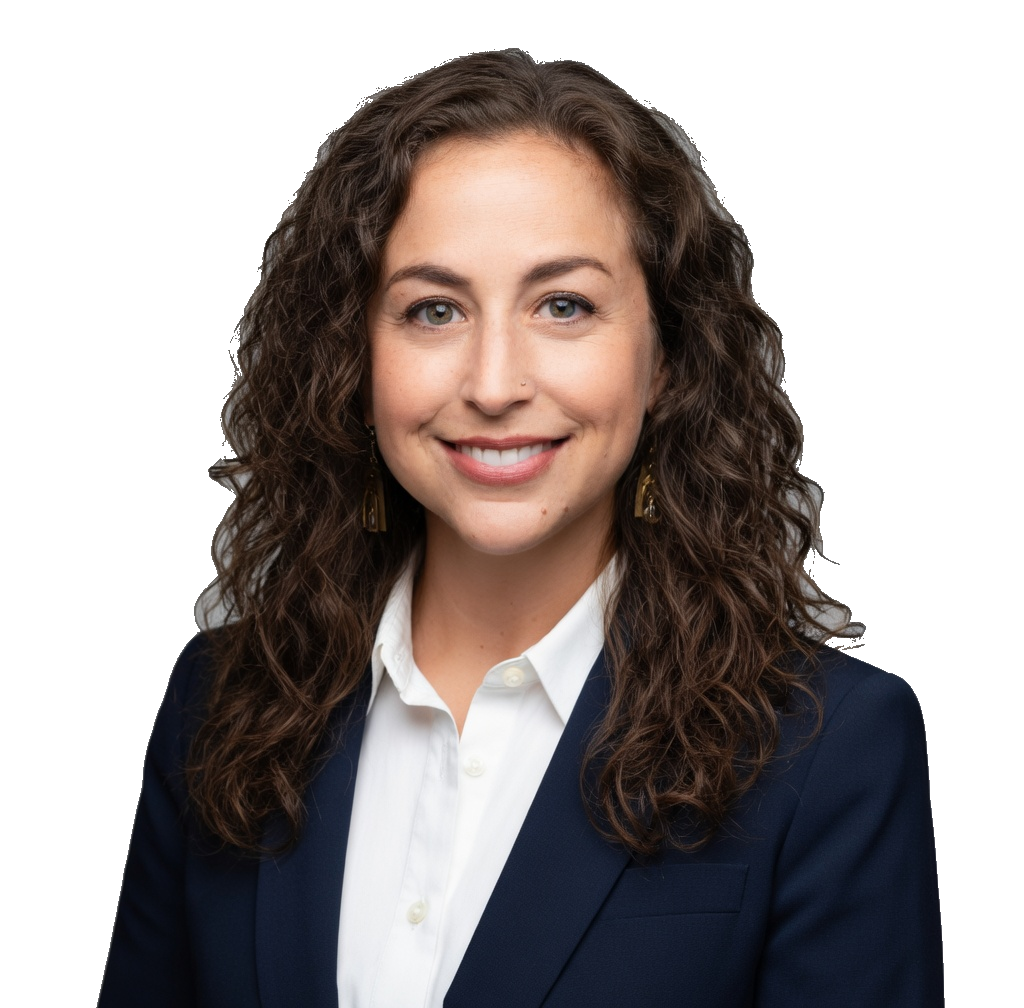
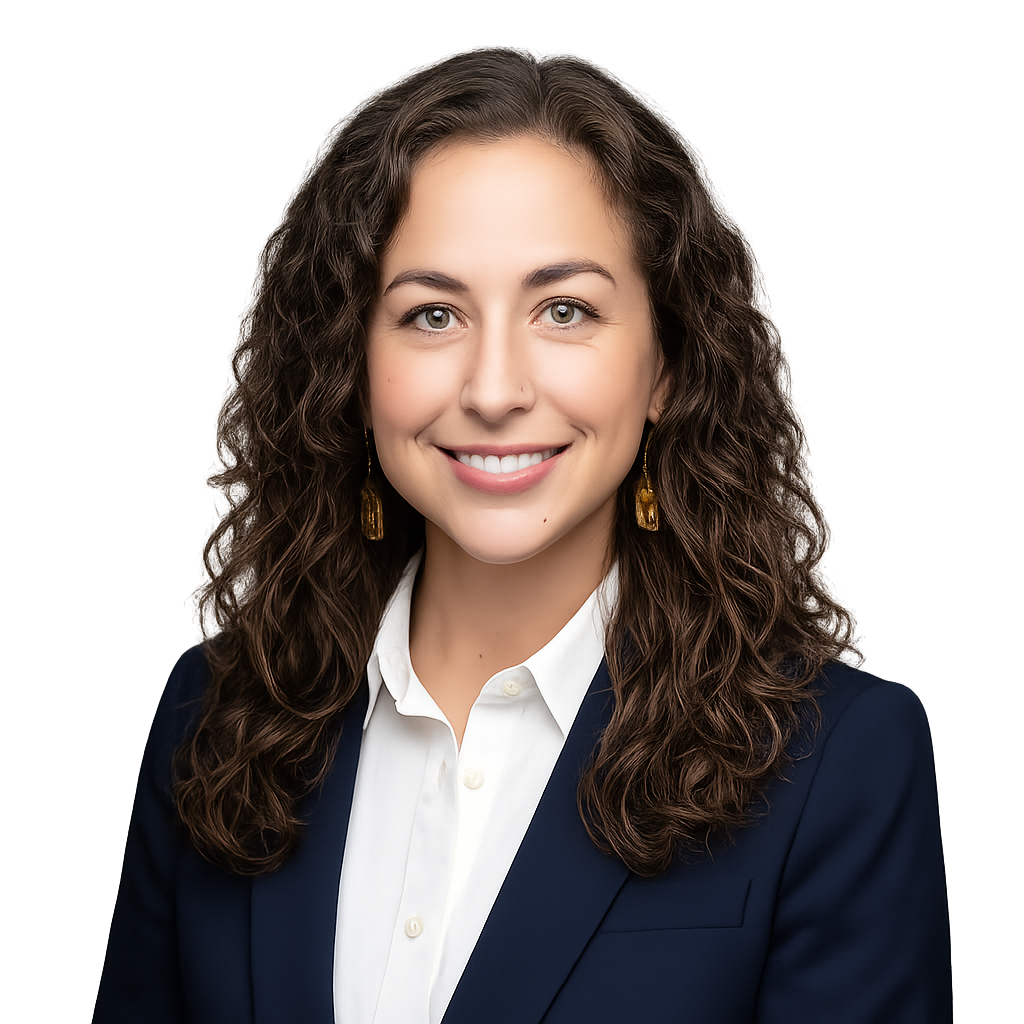
premium update and quality

diff --git a/script.js b/script.js
@@ -184,29 +184,33 @@ function closeNewEntryModal() {
 }
 
 async function createNewEntry() {
-    const user = auth.currentUser;
-    if (!user) {
-        alert("You must be logged in.");
-        return;
-    }
-
     const name = document.getElementById('new-entry-name').value.trim();
     if (!name) {
         alert("Please give your entry a name.");
         return;
     }
 
+    closeNewEntryModal();
+    await createEntryWithTitle(name);
+}
+
+async function createEntryWithTitle(title) {
+    const user = auth.currentUser;
+    if (!user) {
+        alert("You must be logged in.");
+        return;
+    }
+
     try {
         const docRef = await db.collection('users').doc(user.uid)
             .collection('journals').add({
-                title: name,
+                title: title,
                 text: '',
                 status: 'draft',
                 timestamp: firebase.firestore.FieldValue.serverTimestamp(),
                 userId: user.uid
             });
 
-        closeNewEntryModal();
         await loadEntries();          // Refresh the table of contents
         openEntry(docRef.id, 'edit'); // Open the new entry ready to write
 
@@ -653,8 +657,94 @@ async function loadTodayMood() {
 // PLACEHOLDER FUNCTIONS (to build later)
 // ============================================
 function customizeJournal() { alert("🎨 Customization coming soon."); }
-function showPrompts() { alert("Prompts coming soon."); }
 function showBookshelf() { alert("Bookshelf coming soon."); }
+
+// ============================================
+// PROMPTS
+// ============================================
+const SUGGESTED_PROMPTS = [
+    "What drained your energy this week?",
+    "What are you proud of right now?",
+    "What's one thing you're avoiding, and why?",
+    "Describe a moment today when you felt calm.",
+    "What would you tell a friend going through what you're going through?",
+    "What's one small win you can celebrate today?"
+];
+
+const THERAPIST_PROMPTS = [
+    { text: "Let's explore where that guilt about saying no is coming from.", from: "Dr. Elena" },
+    { text: "Write about a boundary you set this week — how did it feel?", from: "Dr. Elena" },
+    { text: "What does \"enough\" mean to you right now?", from: "Dr. Elena" }
+];
+
+function showPrompts() {
+    showJournal();
+    openJournalNotebook();
+    document.getElementById('prompts-modal').classList.remove('hidden');
+    switchPromptsTab('suggested');
+}
+
+function closePromptsModal() {
+    document.getElementById('prompts-modal').classList.add('hidden');
+}
+
+function switchPromptsTab(tab) {
+    const suggestedBtn = document.getElementById('prompts-tab-suggested');
+    const therapistBtn = document.getElementById('prompts-tab-therapist');
+    const activeClasses = ['bg-white', 'shadow', 'text-[#0F4C81]'];
+    const inactiveClasses = ['text-slate-500', 'hover:text-slate-700'];
+
+    suggestedBtn.classList.remove(...activeClasses, ...inactiveClasses);
+    therapistBtn.classList.remove(...activeClasses, ...inactiveClasses);
+
+    const activeBtn = tab === 'suggested' ? suggestedBtn : therapistBtn;
+    const inactiveBtn = tab === 'suggested' ? therapistBtn : suggestedBtn;
+    activeBtn.classList.add(...activeClasses);
+    inactiveBtn.classList.add(...inactiveClasses);
+
+    const list = document.getElementById('prompts-list');
+    list.innerHTML = '';
+
+    if (tab === 'suggested') {
+        SUGGESTED_PROMPTS.forEach(text => list.appendChild(buildPromptRow(text)));
+    } else {
+        THERAPIST_PROMPTS.forEach(p => list.appendChild(buildPromptRow(p.text, p.from)));
+    }
+}
+
+function buildPromptRow(text, from) {
+    const row = document.createElement('div');
+    row.className = 'bg-slate-50 rounded-2xl p-4 flex items-center justify-between gap-4';
+
+    const textWrap = document.createElement('div');
+    textWrap.className = 'min-w-0';
+
+    const p = document.createElement('p');
+    p.className = 'text-slate-700 text-sm leading-relaxed';
+    p.textContent = text;
+    textWrap.appendChild(p);
+
+    if (from) {
+        const fromEl = document.createElement('p');
+        fromEl.className = 'text-xs text-amber-700 mt-1 font-medium';
+        fromEl.textContent = '— ' + from;
+        textWrap.appendChild(fromEl);
+    }
+
+    const btn = document.createElement('button');
+    btn.className = 'shrink-0 bg-[#0F4C81] hover:bg-[#0A3D68] text-white text-xs font-medium px-4 py-2 rounded-xl transition whitespace-nowrap';
+    btn.textContent = 'Write with this';
+    btn.onclick = () => writeWithPrompt(text);
+
+    row.appendChild(textWrap);
+    row.appendChild(btn);
+    return row;
+}
+
+async function writeWithPrompt(promptText) {
+    closePromptsModal();
+    await createEntryWithTitle(promptText);
+}
 // ============================================
 // DYNAMIC USER NAME
 // ============================================

diff --git a/dashboard.html b/dashboard.html
@@ -623,6 +623,25 @@
         </div>
     </div>
 
+    <!-- Prompts Modal -->
+    <div id="prompts-modal" class="hidden fixed inset-0 bg-black/40 z-50 flex items-center justify-center">
+        <div class="bg-white rounded-3xl shadow-2xl p-10 w-full max-w-lg mx-4 max-h-[85vh] flex flex-col">
+            <div class="flex items-center justify-between mb-6">
+                <h3 class="text-2xl font-bold text-[#0F4C81]">Prompts</h3>
+                <button onclick="closePromptsModal()" class="text-slate-400 hover:text-slate-600 text-xl leading-none">✕</button>
+            </div>
+
+            <div class="flex gap-2 mb-6 bg-slate-100 rounded-2xl p-1">
+                <button id="prompts-tab-suggested" onclick="switchPromptsTab('suggested')"
+                    class="flex-1 py-3 rounded-xl font-medium transition text-sm bg-white shadow text-[#0F4C81]">✨ Suggested</button>
+                <button id="prompts-tab-therapist" onclick="switchPromptsTab('therapist')"
+                    class="flex-1 py-3 rounded-xl font-medium transition text-sm text-slate-500 hover:text-slate-700">👩⚕️ From Dr. Elena</button>
+            </div>
+
+            <div id="prompts-list" class="space-y-3 overflow-y-auto pr-1 flex-1"></div>
+        </div>
+    </div>
+
     <!-- Nickname Modal (first-time setup, forced; reused for editing from Settings) -->
     <div id="nickname-modal" class="hidden fixed inset-0 bg-black/40 z-50 flex items-center justify-center">
         <div class="bg-white rounded-3xl shadow-2xl p-10 w-full max-w-md mx-4">